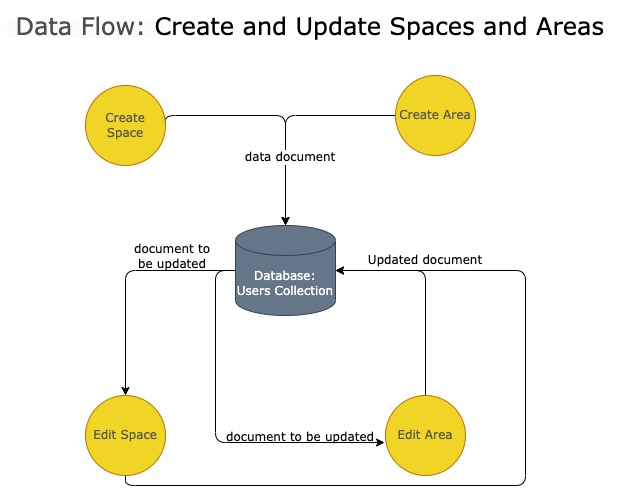
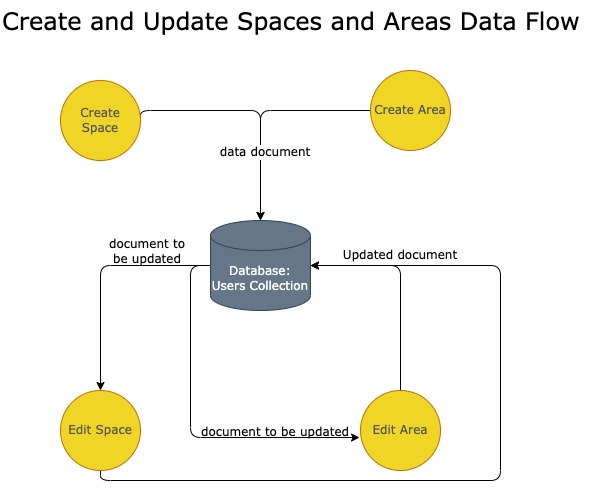
adjust format

Changed region(s): [[0.0933, 0.1227, 0.8396, 1.0], [0.0, 0.0, 0.9951, 0.092], [0.8396, 0.5521, 0.8707, 0.9509]]

diff --git a/README.md b/README.md
@@ -67,38 +67,42 @@ The primary ways data flows within the application are:
 
 Both spaces and areas allow for user provided names, descriptions and notes which are stored in the users collection on the database. The app also allows for user uploaded images of spaces and areas which are uploaded to an AWS image server, which responds with an image URL. The returned image URL is then stored appropriately in the users collection on the database. 
 
+<br/>
 
 <p align="center">
   <img src="./docs/dataflow-diagrams/legend.jpg" />
 </p>
 
 
-</br>  
+<br/>
+
 <p align="center">
   <img src="./docs/dataflow-diagrams/full-view.jpg" />
 </p>
 
 
-</br>  
+<br/>
 
 <p align="center">
   <img src="./docs/dataflow-diagrams/login.jpg" />
 </p>
 
-</br>  
+<br/>  
 
-![data flow view spaces/areas](./docs/dataflow-diagrams/view-spaces-areas.jpg)
+
 <p align="center">
   <img src="./docs/dataflow-diagrams/view-spaces-areas.jpg" />
 </p>
 
-</br>  
+<br/>  
+
 
 <p align="center">
-  <img src="./docs/dataflow-diagrams/dataflow-diagrams.jpg" />
+  <img src="./docs/dataflow-diagrams/create-update-spaces-areas.jpg" />
 </p>
 
-</br>  
+
+<br/>  
 
 
 <p align="center">
@@ -122,6 +126,7 @@ Both spaces and areas allow for user provided names, descriptions and notes whic
 ![User stories screenshot](./docs/trello-screenshots/user-stores-18-8.png)
 
 <br/>
+
 
 ### Project Management
 For project management approach we are using Agile methodologies aided by a Trello project boards. Task cards are created, assigned and given a due date in order to keep progress on track and reduce any disruption of creation flow. Additionally communication on a group discord, casual individual daily standups are used to keep project perspective and adapatability to changing needs of individuals and the project. Members take turns participating in a more formal group daily standup on the cohorts discord channel.
